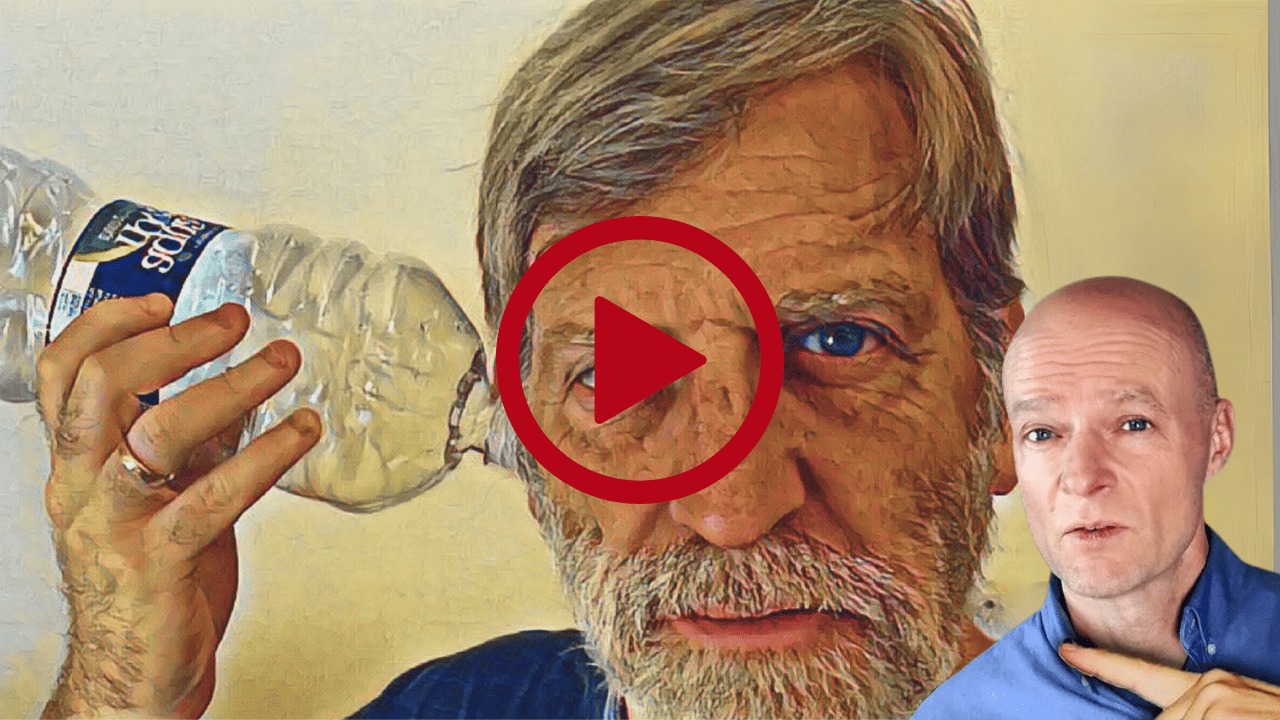
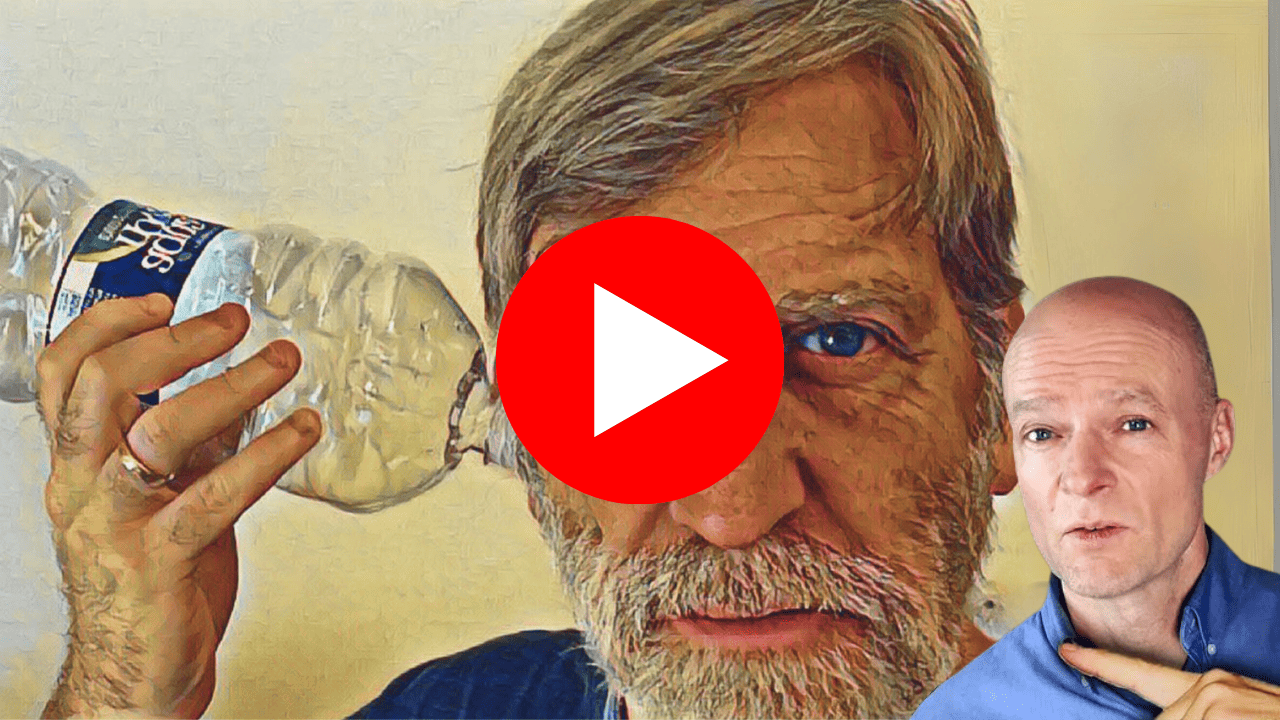
Add files via upload

diff --git a/ecfree/adv-1/index.html b/ecfree/adv-1/index.html
@@ -6,14 +6,14 @@
 		<link rel="preconnect" href="https://fonts.googleapis.com">
 		<link rel="preconnect" href="https://fonts.gstatic.com" crossorigin>
 		<link href="https://fonts.googleapis.com/css2?family=Roboto:wght@100;400&family=Playfair+Display:ital,wght@0,400..900;1,400..900&display=swap" rel="stylesheet">
-		<title>Ex-Military Doctor Reveals Simple “Army Hack” That May Help Ease Ear Ringing</title>
+		<title>10-second military hack</title>
 		<style>
 			body {
 			margin: 0;
 			font-family: 'Roboto', Arial, sans-serif;
 			background-color: #ffffff;
 			color: #004c5e;
-			line-height: 1.6;
+			line-height: 1.4;
 			}
 			.head {
 			background-color: #014A3D;
@@ -47,7 +47,7 @@
 			margin-top: 60px;
 			}
 			.footer p{
-			font-size: 14px;
+			font-size: 12px;
 			}
 			.footer-content {
 			max-width: 800px;
@@ -124,13 +124,13 @@
 			margin-bottom: 30px;
 			line-height: 1.2;
 			}
-         h3{
-         font-size: 16px;
-         color: rgba(0, 0, 0, 0.45);
-         margin: 0;
-         text-align: center;
-
-         }
+			h3{
+			font-size: 16px;
+			color: rgba(0, 0, 0, 0.45);
+			margin: 0;
+			text-align: center;
+			font-weight: 400;
+			}
 			.red {
 			color: #d72638;
 			font-weight: 800;
@@ -168,12 +168,12 @@
 			})(window, document, "clarity", "script", "s21ljjf9nr");
 		</script>
 		<script
-		  src="https://cdn.utmify.com.br/scripts/utms/latest.js"
-		  data-utmify-prevent-xcod-sck
-		  data-utmify-is-click-bank
-		  async
-		  defer
-		></script>
+			src="https://cdn.utmify.com.br/scripts/utms/latest.js"
+			data-utmify-prevent-xcod-sck
+			data-utmify-is-click-bank
+			async
+			defer
+			></script>
 		<script>
 			window.pixelId = "682b4d722bffa177575f3d88";
 			var a = document.createElement("script");
@@ -236,17 +236,20 @@
 			</div>
 		</div>
 		<div class="container">
-         <h3>Advertorial</h3>
+			<h3>Advertorial</h3>
 			<h1>Ex-Military Doctor Reveals Simple <strong class="red">“Army Hack”</strong> That May Help Ease Ear Ringing</h1>
 			<h2>New approach gaining attention after brain specialist adapts technique for natural support</h2>
+			<a href="https://newsnaturallife.site/ecfree/vsl/">
+			<img src="img/thumb.png" alt="Imagem ilustrativa..." style="width: 100%; height: auto; border-radius: 10px; box-shadow: 0 4px 12px rgba(0,0,0,0.1);">
+			</a>
 			<p>Millions live with the constant hum of ear ringing — a condition often misunderstood. While traditionally linked to hearing issues, recent studies now suggest a deeper cause: a disrupted connection between the ear and the brain.</p>
 			<p>When this neural link weakens, it may create the phantom sounds many describe as ringing, buzzing, or hissing. Experts also suggest it could impact focus, rest, and emotional well-being.</p>
 			<p>
-			<a href="https://newsnaturallife.site/ecfree/vsl/">
-			<img src="img/doctor.png" alt="Dr. Michael Bennett" style="float: left; width: 120px; height: 120px; object-fit: cover; margin-right: 15px;">
-			</a>
-			<a href="https://newsnaturallife.site/ecfree/vsl/">
-                	<b>Dr. Michael Bennett</b></a>, a neuroscientist with over 25 years of experience, faced these symptoms himself. In his search for answers, he discovered a little-known technique once explored by military researchers to help calm persistent noise in the ears.
+				<a href="https://newsnaturallife.site/ecfree/vsl/">
+				<img src="img/doctor.png" alt="Dr. Michael Bennett" style="float: left; width: 120px; height: 120px; object-fit: cover; margin-right: 15px;">
+				</a>
+				<a href="https://newsnaturallife.site/ecfree/vsl/">
+				<b>Dr. Michael Bennett</b></a>, a neuroscientist with over 25 years of experience, faced these symptoms himself. In his search for answers, he discovered a little-known technique once explored by military researchers to help calm persistent noise in the ears.
 			</p>
 			<p>With support from a former colleague, Dr. Bennett adapted the idea into a natural, easy-to-follow wellness method. Early reports have been positive.</p>
 			<!-- Depoimento com imagem -->
@@ -261,7 +264,7 @@
 		<!-- Thumbnail de vídeo com link -->
 		<div class="container" style="text-align: center;">
 			<a href="https://newsnaturallife.site/ecfree/vsl/">
-			<img src="img/thumb.png" alt="Imagem ilustrativa..." style="width: 100%; height: auto; border-radius: 10px; box-shadow: 0 4px 12px rgba(0,0,0,0.1);">
+			<img src="img/thumb2.png" alt="Imagem ilustrativa..." style="width: 100%; height: auto; border-radius: 10px; box-shadow: 0 4px 12px rgba(0,0,0,0.1);">
 			</a>
 			<a href="https://newsnaturallife.site/ecfree/vsl/" style="display: inline-block; margin-top: 20px; background-color: #d72638; color: white; font-weight: 700; padding: 14px 28px; border-radius: 8px; text-decoration: none; font-size: 16px; box-shadow: 0 4px 10px rgba(0,0,0,0.15); transition: background-color 0.3s;">
 			▶ TAP HERE TO WATCH THE VIDEO
